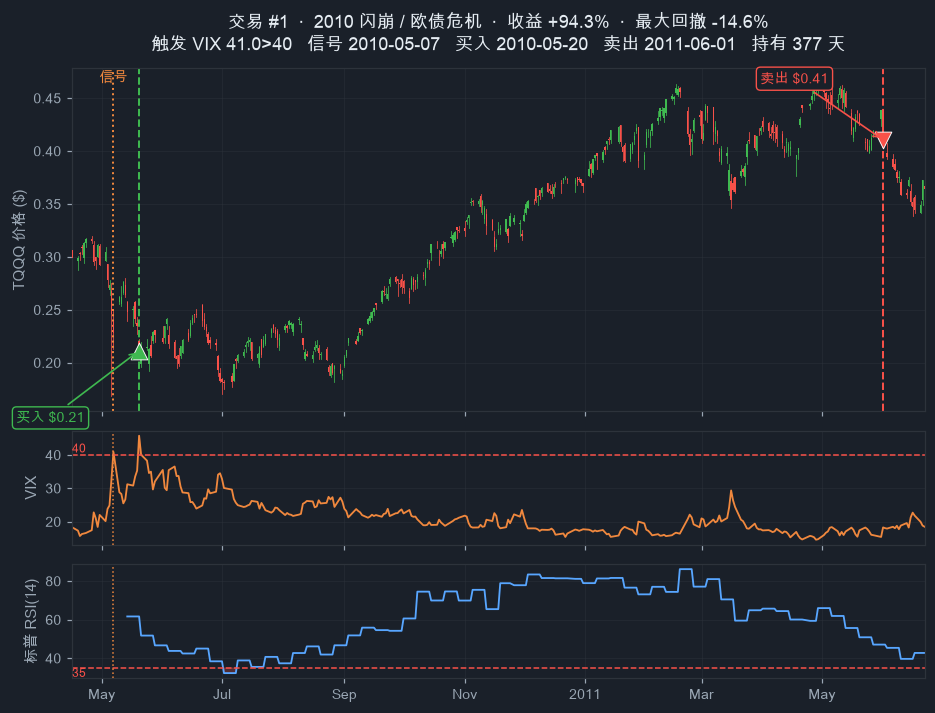
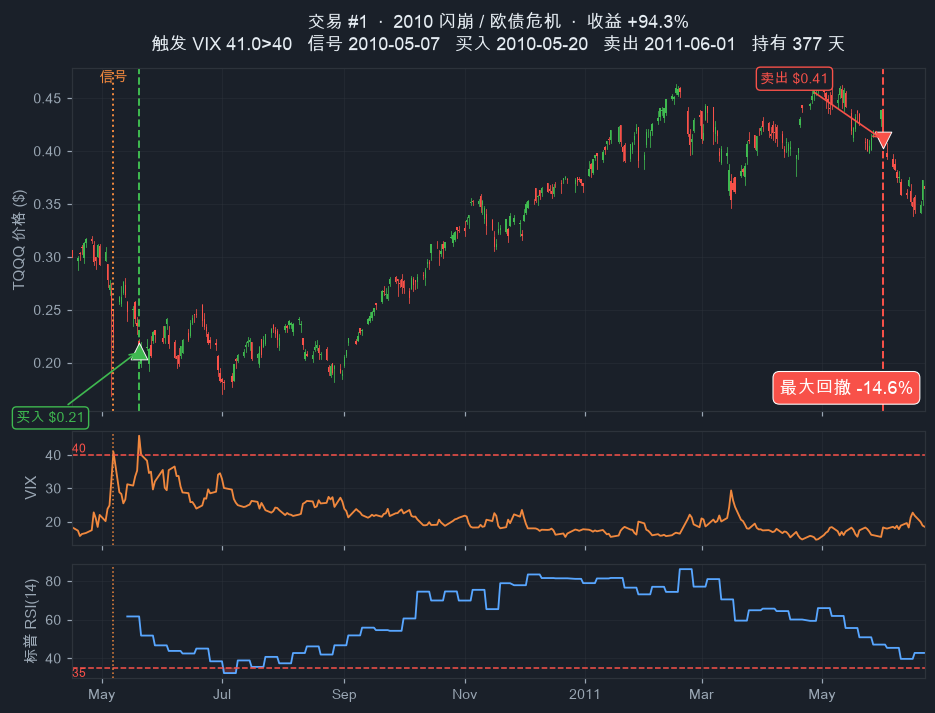
Per-trade charts: highlight max drawdown as a red badge (off the title)

Changed region(s): [[0.3412, 0.0, 0.8064, 0.0617], [0.8064, 0.4937, 0.9925, 0.5863], [0.2481, 0.0, 0.3102, 0.0617]]

diff --git a/src/plot_trades.py b/src/plot_trades.py
@@ -145,10 +145,15 @@ def main():
         panic = PANIC.get(num)
         head = f"交易 #{num}" + (f"  ·  {panic}" if panic else "")
         ax1.set_title(
-            f"{head}  ·  收益 {t['Return_%']:+.1f}%  ·  最大回撤 {max_dd:.1f}%{status}\n"
+            f"{head}  ·  收益 {t['Return_%']:+.1f}%{status}\n"
             f"触发 {t['Trigger']}   信号 {sig:%Y-%m-%d}   买入 {ent:%Y-%m-%d}   "
             f"卖出 {exit_lbl}   持有 {int(t['Hold_Days'])} 天",
             color=INK, fontsize=12, pad=12)
+        # highlighted max-drawdown badge (red), bottom-right empty area
+        ax1.text(0.987, 0.04, f"最大回撤 {max_dd:.1f}%", transform=ax1.transAxes,
+                 ha="right", va="bottom", fontsize=12, fontweight="bold", color="white",
+                 bbox=dict(boxstyle="round,pad=0.35", facecolor=DOWN, edgecolor="white", lw=0.7),
+                 zorder=20)
         ax1.set_ylabel("TQQQ 价格 ($)", color=MUTED, fontsize=10)
 
         # --- trigger 1: VIX ---
